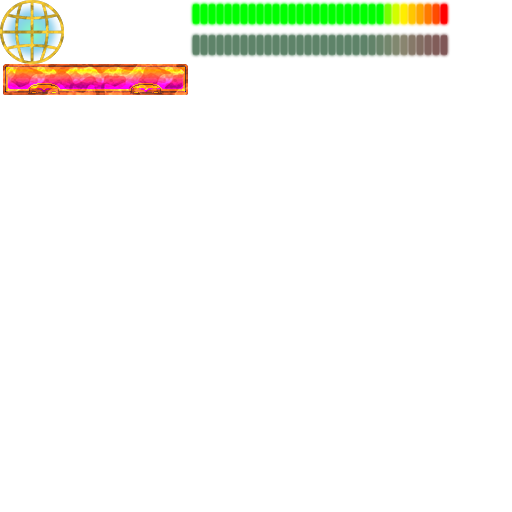
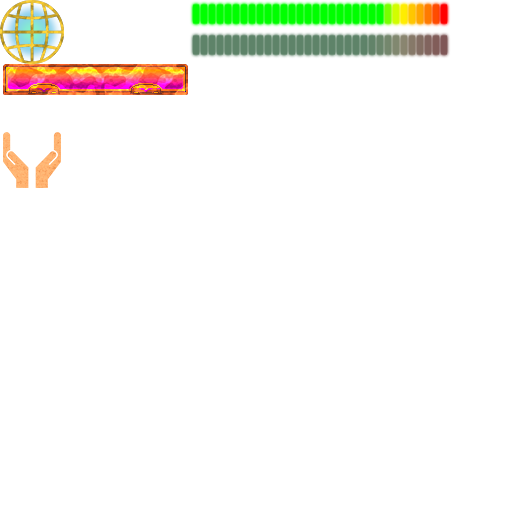
Добавлены руки и влияние на мяч, типа как в волейболе, но всё гораздо круче. Потому что в кампутере.

Changed region(s): [[0.0, 0.25, 0.125, 0.375]]

diff --git a/core/src/ru/vgtrofimov/ballsshmalls/stages/GameStage.java b/core/src/ru/vgtrofimov/ballsshmalls/stages/GameStage.java
@@ -8,7 +8,9 @@ import com.badlogic.gdx.utils.viewport.Viewport;
 import ru.vgtrofimov.ballsshmalls.Balls;
 import ru.vgtrofimov.ballsshmalls.actors.ActorBackground;
 import ru.vgtrofimov.ballsshmalls.actors.ActorBall;
+import ru.vgtrofimov.ballsshmalls.actors.ActorLeftHand;
 import ru.vgtrofimov.ballsshmalls.actors.ActorRacquet;
+import ru.vgtrofimov.ballsshmalls.actors.ActorRightHand;
 import ru.vgtrofimov.ballsshmalls.actors.ActorTimer;
 import ru.vgtrofimov.ballsshmalls.screens.GameScreen;
 import ru.vgtrofimov.ballsshmalls.settings.Setup;
@@ -17,12 +19,15 @@ import ru.vgtrofimov.ballsshmalls.textures.Textures;
 public class GameStage extends StageParent {
 
     Textures textures;
-    int game_world_width, game_world_height;
+    InputProcessor inputProcessor;
+    public static int game_world_width, game_world_height;
 
     ActorBall actorBall;
     ActorRacquet actorRacquet;
     int correct_camera_y;
 
+    ActorRightHand actorRightHand;
+    ActorLeftHand actorLeftHand;
     ActorTimer actorTimer;
 
     public GameStage(GameScreen gameScreen, Viewport viewport, OrthographicCamera camera, Textures textures) {
@@ -35,7 +40,8 @@ public class GameStage extends StageParent {
     }
 
     private void reset() {
-        Gdx.input.setInputProcessor(new InputProcessor() {
+
+        inputProcessor = new InputProcessor() {
             @Override
             public boolean keyDown(int keycode) {
                 return false;
@@ -56,6 +62,18 @@ public class GameStage extends StageParent {
                 if (actorTimer != null) {
                     actorTimer.setRandomFrame();
                     actorTimer.setPressed(true);
+                } else {
+                    if (actorRightHand == null && screenX > Gdx.graphics.getWidth() / 2) {
+                        actorRightHand = new ActorRightHand(actorBall, textures.getRightHand(), (int) actorBall.getX(), (int) actorBall.getY());
+                        actorRightHand.setPressed(true);
+                        addActor(actorRightHand);
+                    }
+
+                    if (actorLeftHand == null && screenX <= Gdx.graphics.getWidth() / 2) {
+                        actorLeftHand = new ActorLeftHand(actorBall, textures.getLeftHand(), (int) actorBall.getX(), (int) actorBall.getY());
+                        actorLeftHand.setPressed(true);
+                        addActor(actorLeftHand);
+                    }
                 }
                 return false;
             }
@@ -66,6 +84,17 @@ public class GameStage extends StageParent {
                     actorTimer.setPressed(false);
                     actorRacquet.setPressed_energy(actorTimer.getFrame());
                 }
+
+                if (actorRightHand != null && actorRightHand.isPressed()) {
+                    actorRightHand.setPressed(false);
+                    actorRightHand.setTime_to_death(0.1f);
+                }
+
+                if (actorLeftHand != null && actorLeftHand.isPressed()) {
+                    actorLeftHand.setPressed(false);
+                    actorLeftHand.setTime_to_death(0.1f);
+                }
+
                 return false;
             }
 
@@ -83,7 +112,10 @@ public class GameStage extends StageParent {
             public boolean scrolled(float amountX, float amountY) {
                 return false;
             }
-        });
+        };
+
+        Gdx.input.setInputProcessor(inputProcessor);
+
         correct_camera_y = 128;
         addActors();
     }
@@ -112,7 +144,33 @@ public class GameStage extends StageParent {
     public void act(float delta) {
         super.act(delta);
 
+        if (actorRightHand != null) {
+            actorRightHand.setX(actorBall.getX() - 2);
+            actorRightHand.setY(actorBall.getY() + 16);
+            if (!actorRightHand.isEnabled()) {
+                actorRightHand.remove();
+                actorRightHand = null;
+            }
+        }
+
+        if (actorLeftHand != null) {
+            actorLeftHand.setX(actorBall.getX() - 30);
+            actorLeftHand.setY(actorBall.getY() + 16);
+            if (!actorLeftHand.isEnabled()) {
+                actorLeftHand.remove();
+                actorLeftHand = null;
+            }
+        }
+
+
+        calc_camera_pos(delta);
+    }
+
+    private void calc_camera_pos(float delta) {
+        /** РАСЧЁТ ПОЗИЦИИ КАМЕРЫ */
+
         if (actorTimer != null) actorTimer.setX(actorRacquet.getX() - 32);
+
 
         /**
          * Это какой-то пипец с расчётами камеры.
@@ -166,7 +224,6 @@ public class GameStage extends StageParent {
 
         camera.position.set(cam_pos_x,cam_pos_y + correct_camera_y, 0);
         camera.update();
-
     }
 
     @Override

diff --git a/core/src/ru/vgtrofimov/ballsshmalls/actors/ActorRightHand.java b/core/src/ru/vgtrofimov/ballsshmalls/actors/ActorRightHand.java
@@ -1,0 +1,77 @@
+package ru.vgtrofimov.ballsshmalls.actors;
+
+import com.badlogic.gdx.graphics.g2d.Batch;
+import com.badlogic.gdx.graphics.g2d.TextureRegion;
+import com.badlogic.gdx.scenes.scene2d.Actor;
+
+import ru.vgtrofimov.ballsshmalls.Balls;
+import ru.vgtrofimov.ballsshmalls.stages.GameStage;
+
+public class ActorRightHand extends Actor {
+
+    ActorBall actorBall;
+    TextureRegion skin;
+    boolean pressed = true;
+    boolean enabled = true;
+    float time_to_death = 0;
+    float timeToPressed = 0;
+
+    public ActorRightHand(ActorBall actorBall, TextureRegion skin, int x, int y) {
+        this.actorBall = actorBall;
+        this.skin = skin;
+        setX(x); setY(y); // setBounds(getX(), getY(), skin.getRegionWidth(), skin.getRegionHeight());
+        setWidth(skin.getRegionWidth()); setHeight(skin.getRegionHeight());
+        setOrigin(getWidth(), getHeight()); setScale(1, 1);
+        setRotation(33);
+    }
+
+    @Override
+    public void act(float delta) {
+        super.act(delta);
+
+        if (!isPressed() && time_to_death > 0) {
+            time_to_death -= delta;
+            if (time_to_death <= 0) {
+                enabled = false;
+            }
+        }
+
+        if (isPressed() && isEnabled()) {
+            timeToPressed += delta;
+            if (timeToPressed > 1.5f) {
+                enabled = false;
+            }
+        }
+    }
+
+    @Override
+    public void draw(Batch batch, float parentAlpha) {
+        super.draw(batch, parentAlpha);
+        batch.draw(skin, getX(), getY(), getOriginX(), getOriginY(), getWidth(), getHeight(), getScaleX(), getScaleY(), getRotation());
+    }
+
+    public boolean isPressed() {
+        return pressed;
+    }
+
+    public void setPressed(boolean pressed) {
+        this.pressed = pressed;
+    }
+
+    public boolean isEnabled() {
+        return enabled;
+    }
+
+    public void setEnabled(boolean enabled) {
+        this.enabled = enabled;
+    }
+
+    public void setTime_to_death(float time_to_death) {
+        if (time_to_death > 0) {
+            setRotation(10);
+            actorBall.setSpeedY(actorBall.getSpeedY() - (int) (timeToPressed * GameStage.game_world_height * 0.3f));
+            actorBall.setSpeedX(actorBall.getSpeedX() - (int) (timeToPressed * GameStage.game_world_width));
+        }
+        this.time_to_death = time_to_death;
+    }
+}

diff --git a/core/src/ru/vgtrofimov/ballsshmalls/actors/ActorLeftHand.java b/core/src/ru/vgtrofimov/ballsshmalls/actors/ActorLeftHand.java
@@ -1,0 +1,76 @@
+package ru.vgtrofimov.ballsshmalls.actors;
+
+import com.badlogic.gdx.graphics.g2d.Batch;
+import com.badlogic.gdx.graphics.g2d.TextureRegion;
+import com.badlogic.gdx.scenes.scene2d.Actor;
+
+import ru.vgtrofimov.ballsshmalls.stages.GameStage;
+
+public class ActorLeftHand extends Actor {
+
+    ActorBall actorBall;
+    TextureRegion skin;
+    boolean pressed = true;
+    boolean enabled = true;
+    float time_to_death = 0;
+    float timeToPressed = 0;
+
+    public ActorLeftHand(ActorBall actorBall, TextureRegion skin, int x, int y) {
+        this.actorBall = actorBall;
+        this.skin = skin;
+        setX(x); setY(y); // setBounds(getX(), getY(), skin.getRegionWidth(), skin.getRegionHeight());
+        setWidth(skin.getRegionWidth()); setHeight(skin.getRegionHeight());
+        setOrigin(0, getHeight()); setScale(1, 1);
+        setRotation(-33);
+    }
+
+    @Override
+    public void act(float delta) {
+        super.act(delta);
+
+        if (!isPressed() && time_to_death > 0) {
+            time_to_death -= delta;
+            if (time_to_death <= 0) {
+                enabled = false;
+            }
+        }
+
+        if (isPressed() && isEnabled()) {
+            timeToPressed += delta;
+            if (timeToPressed > 1.5f) {
+                enabled = false;
+            }
+        }
+    }
+
+    @Override
+    public void draw(Batch batch, float parentAlpha) {
+        super.draw(batch, parentAlpha);
+        batch.draw(skin, getX(), getY(), getOriginX(), getOriginY(), getWidth(), getHeight(), getScaleX(), getScaleY(), getRotation());
+    }
+
+    public boolean isPressed() {
+        return pressed;
+    }
+
+    public void setPressed(boolean pressed) {
+        this.pressed = pressed;
+    }
+
+    public boolean isEnabled() {
+        return enabled;
+    }
+
+    public void setEnabled(boolean enabled) {
+        this.enabled = enabled;
+    }
+
+    public void setTime_to_death(float time_to_death) {
+        if (time_to_death > 0) {
+            setRotation(-10);
+            actorBall.setSpeedY(actorBall.getSpeedY() - (int) (timeToPressed * GameStage.game_world_height * 0.3f));
+            actorBall.setSpeedX(actorBall.getSpeedX() + (int) (timeToPressed * GameStage.game_world_width));
+        }
+        this.time_to_death = time_to_death;
+    }
+}

diff --git a/core/src/ru/vgtrofimov/ballsshmalls/actors/ActorBall.java b/core/src/ru/vgtrofimov/ballsshmalls/actors/ActorBall.java
@@ -5,6 +5,7 @@ import com.badlogic.gdx.graphics.g2d.TextureRegion;
 import com.badlogic.gdx.scenes.scene2d.Actor;
 
 import ru.vgtrofimov.ballsshmalls.Balls;
+import ru.vgtrofimov.ballsshmalls.stages.GameStage;
 
 public class ActorBall extends Actor {
 
@@ -111,6 +112,14 @@ public class ActorBall extends Actor {
     }
 
     public void setSpeedX(float speedX) {
+
+        int modifier = 1;
+        if (speedX < 0) modifier = -1;
+
+        if (Math.abs(speedX) > GameStage.game_world_width) {
+            speedX = GameStage.game_world_width * modifier;
+        }
+
         this.speedX = speedX;
     }
 
@@ -119,6 +128,14 @@ public class ActorBall extends Actor {
     }
 
     public void setSpeedY(float speedY) {
+
+        int modifier = 1;
+        if (speedY < 0) modifier = -1;
+
+        if (Math.abs(speedY) > GameStage.game_world_height / 10) {
+            speedY = GameStage.game_world_height / 10 * modifier;
+        }
+
         this.speedY = speedY;
     }
 

diff --git a/core/src/ru/vgtrofimov/ballsshmalls/textures/Textures.java b/core/src/ru/vgtrofimov/ballsshmalls/textures/Textures.java
@@ -15,6 +15,8 @@ public class Textures {
     TextureRegion ball_shadow;
     TextureRegion racquet;
 
+    TextureRegion leftHand, rightHand;
+
     public Textures() {
         Texture load;
 
@@ -22,6 +24,9 @@ public class Textures {
         background = getTextureRegionFromMap(0, 0, load.getWidth(), load.getHeight(), false, true, load);
 
         load = new Texture("png/pack.png");
+
+        leftHand = getTextureRegionFromMap(0, 128, 32, 64, false, true, load);
+        rightHand = getTextureRegionFromMap(32, 128, 32, 64, false, true, load);
 
         timer = new TextureRegion[32];
         for (int i = 0; i < 32; i++) {
@@ -64,5 +69,13 @@ public class Textures {
 
     public TextureRegion getBlank_timer() {
         return blank_timer;
+    }
+
+    public TextureRegion getLeftHand() {
+        return leftHand;
+    }
+
+    public TextureRegion getRightHand() {
+        return rightHand;
     }
 }

diff --git a/core/src/ru/vgtrofimov/ballsshmalls/settings/Setup.java b/core/src/ru/vgtrofimov/ballsshmalls/settings/Setup.java
@@ -6,5 +6,5 @@ public class Setup {
     public static final String FONT_CHARS = "абвгдеёжзийклмнопрстуфхцчшщъыьэюяabcdefghijklmnopqrstuvwxyzАБВГДЕЁЖЗИЙКЛМНОПРСТУФХЦЧШЩЪЫЬЭЮЯABCDEFGHIJKLMNOPQRSTUVWXYZ0123456789][_!$%#@|\\/?-+=()*&.;:,{}\"´`'<>";
 
     // Сколько раз повторяется текстура (высота игрового мира)
-    public static int count_background = 12;
+    public static int count_background = 20;
 }
